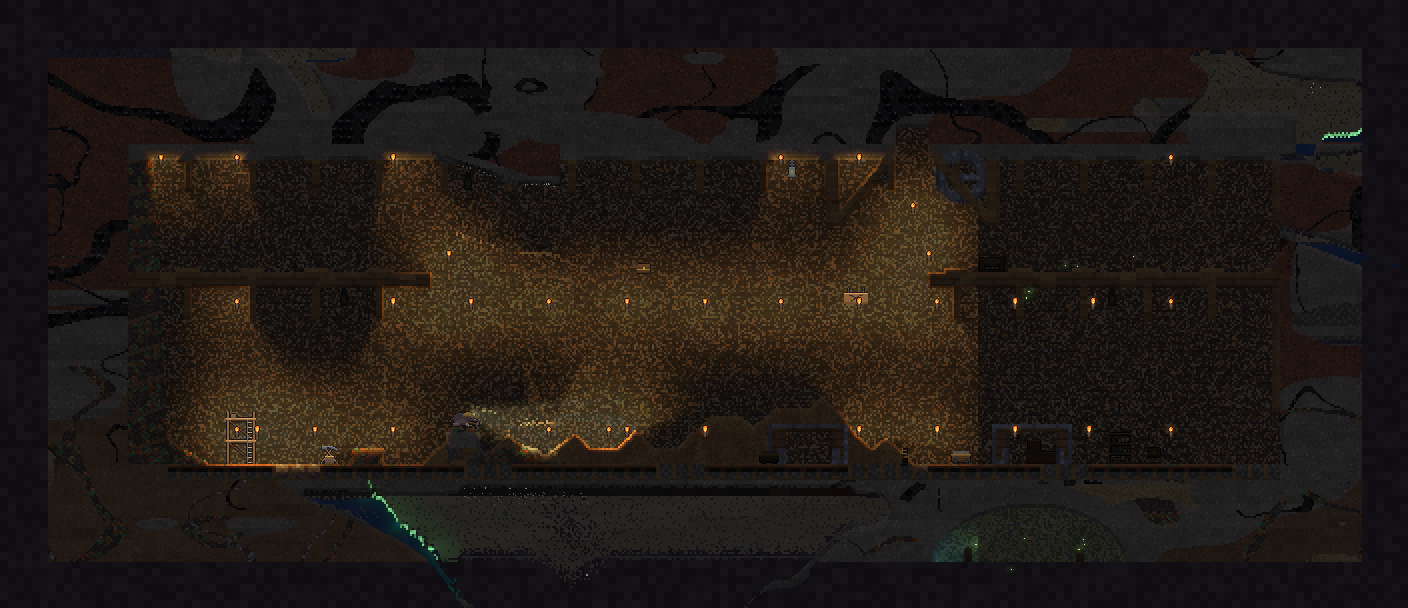
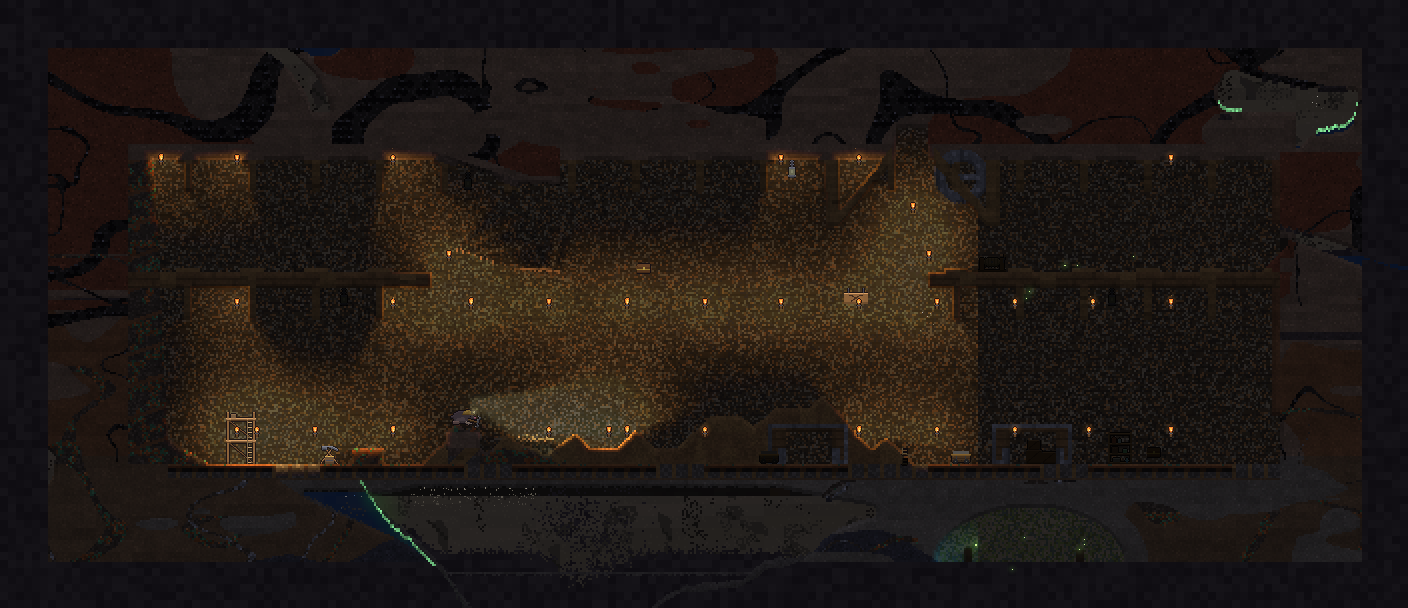
Wiki final sync (biomes #95–#99): region tests listed, wash wording after the seams fix, found-place stills retaken with the region wash
- World-and-Generation: list sideways_region_edges_wander_with_depth and
  linings_have_no_block_grid with the other region tests; the wash blur
  now fades region edges that change cell to cell (no longer described as
  straight column edges after #99); note the regions were checked headless
  and in --dump-wide stills, not in a live window.
- Retake site-mine/holt/fissure/fossil/crystal on seed 4242 (host rock now
  carries the region wash). Pump and halt stay older: --dump-art still
  panics on those two scenes (game/src/main.rs mole marker).

diff --git a/docs/wiki/World-and-Generation.md b/docs/wiki/World-and-Generation.md
@@ -49,7 +49,7 @@ Each world column has a **leaning** (`Gen::biome_x`, a 2-octave fbm at scale 65 
 | Fungal hollows | as around it | the widest hollows (+0.05) | fungus banks (lamp oil) on the floors with moss under them, glowing mycelium up the side walls (never hanging from a roof) | mycelium threads (`Wall::Mycel`), damp | none of its own yet |
 | Ashlands | basalt (from 55 m effective, all of it below 70 m) | lava first in the pockets | nothing grows | split basalt, crystal and salt crust | lava |
 
-The start rules hold whatever region the burrow is in: the start zone is softened afterwards (see [The start burrow](#the-start-burrow)), the settled ground round the burrow keeps its lenses rare (a region's extra lenses fade out with it), and the ore bands depend on depth only. Tests: `sim/tests/biomes.rs` (`regions_follow_the_layers`, `each_region_has_its_own_ground`, `each_region_lines_its_caves`, `hard_ground_lies_just_past_the_start_zone`, `regions_line_the_tiles_the_window_brings_in`), sampled over world columns from a home width west of home to two east of it; `--example biomediag -- SEED` prints the regions and materials round a fresh holt's burrow.
+The start rules hold whatever region the burrow is in: the start zone is softened afterwards (see [The start burrow](#the-start-burrow)), the settled ground round the burrow keeps its lenses rare (a region's extra lenses fade out with it), and the ore bands depend on depth only. Tests: `sim/tests/biomes.rs` (`regions_follow_the_layers`, `each_region_has_its_own_ground`, `each_region_lines_its_caves`, `hard_ground_lies_just_past_the_start_zone`, `sideways_region_edges_wander_with_depth`, `linings_have_no_block_grid`, `regions_line_the_tiles_the_window_brings_in`), sampled over world columns from a home width west of home to two east of it; `--example biomediag -- SEED` prints the regions and materials round a fresh holt's burrow. The regions and their wash were checked headless and in `--dump-wide` stills; no one has played them in a live window yet.
 
 ## Strata
 
@@ -148,7 +148,7 @@ Stamped sites and their interactions: `all_seven_site_families_stamp_with_purpos
 
 ### What they look like
 
-One still of each family, stamped with `--scene=<family>` on seed 4242 and lit by the scene's torches. These are the CPU-side composite from `--dump-art` (`view.bmp`), cropped to the site. It now carries the world sprites too (furniture, furnishings, chests, torches, carts, the mole), and the whole crop is rendered, not just the part on screen.
+One still of each family, stamped with `--scene=<family>` on seed 4242 and lit by the scene's torches. These are the CPU-side composite from `--dump-art` (`view.bmp`), cropped to the site. It now carries the world sprites too (furniture, furnishings, chests, torches, carts, the mole), and the whole crop is rendered, not just the part on screen. The mine, holt, fissure, fossil and crystal stills show the host rock with its region wash (retaken after the biome polish). The pumpworks and halt stills are older and have no wash: `--dump-art` panics on those two scenes for now.
 
 ![Abandoned mine: a two-level sooty drift with a tall headframe, chutes and collapsed timbering](images/site-mine.png)
 *Abandoned mine* (`--scene=mine`)
@@ -240,4 +240,4 @@ Each one gives a **10 s warning** banner with its depth, lasts **6 s** with came
 * **Fog of war:** cells stay hidden until a mole sees them (raycasts every few ticks, 7 m radius) or digs next to them.
 * **Light** comes only from emitters (lava, crystal, fungus, fire) and lights (torches, lamps, forges, the mole's headlamp, a torch in its paws, the mole's own small glow). Rock casts shadows. See [Physics](Physics.md#light).
 * **Parallax:** open cells show three procedural deep-earth layers: far strata tinted by the region of each spot (`Gen::biome_of`, so the strata change colour with depth as well as sideways; factor 0.8), cave silhouettes (0.6) and mineral veins (0.35), rusty near the start and pale quartz or ember deeper down. They follow absolute depth, so they stay continuous when the window slides, and they are drawn as GPU sprites that move smoothly with the camera.
-* **Region wash:** natural ground in front takes part of its region's tint (`art::GROUND_WASH`, 0.6 of the parallax tint): warm in the Loamlands, cool in the karst, grey in the crags, green-blue in the fungal hollows, scorched in the Ashlands. Built blocks, painted blocks, glowing ones and the drawn machinery keep their own colour. Tints come from one map per 1 m block (`art::RegionMap`, on absolute metres, so the wash doesn't move when the window slides) blurred over about 9 m (`art::WASH_BLUR`), so an edge the regions draw straight (where a column's leaning ends) still fades. The parallax reads the same map, and the remembered rows drawn past the window's ends take the same wash, so a region's colour runs on over the window's edge. A **background wall**, if any, sits in front of that far rock and behind the player: darker, flatter, lit by the same light (see [Background walls](#background-walls)).
+* **Region wash:** natural ground in front takes part of its region's tint (`art::GROUND_WASH`, 0.6 of the parallax tint): warm in the Loamlands, cool in the karst, grey in the crags, green-blue in the fungal hollows, scorched in the Ashlands. Built blocks, painted blocks, glowing ones and the drawn machinery keep their own colour. Tints come from one map per 1 m block (`art::RegionMap`, on absolute metres, so the wash doesn't move when the window slides) blurred over about 9 m (`art::WASH_BLUR`), so a region edge, which changes from one cell to the next, still fades over a few metres. The parallax reads the same map, and the remembered rows drawn past the window's ends take the same wash, so a region's colour runs on over the window's edge. A **background wall**, if any, sits in front of that far rock and behind the player: darker, flatter, lit by the same light (see [Background walls](#background-walls)).
